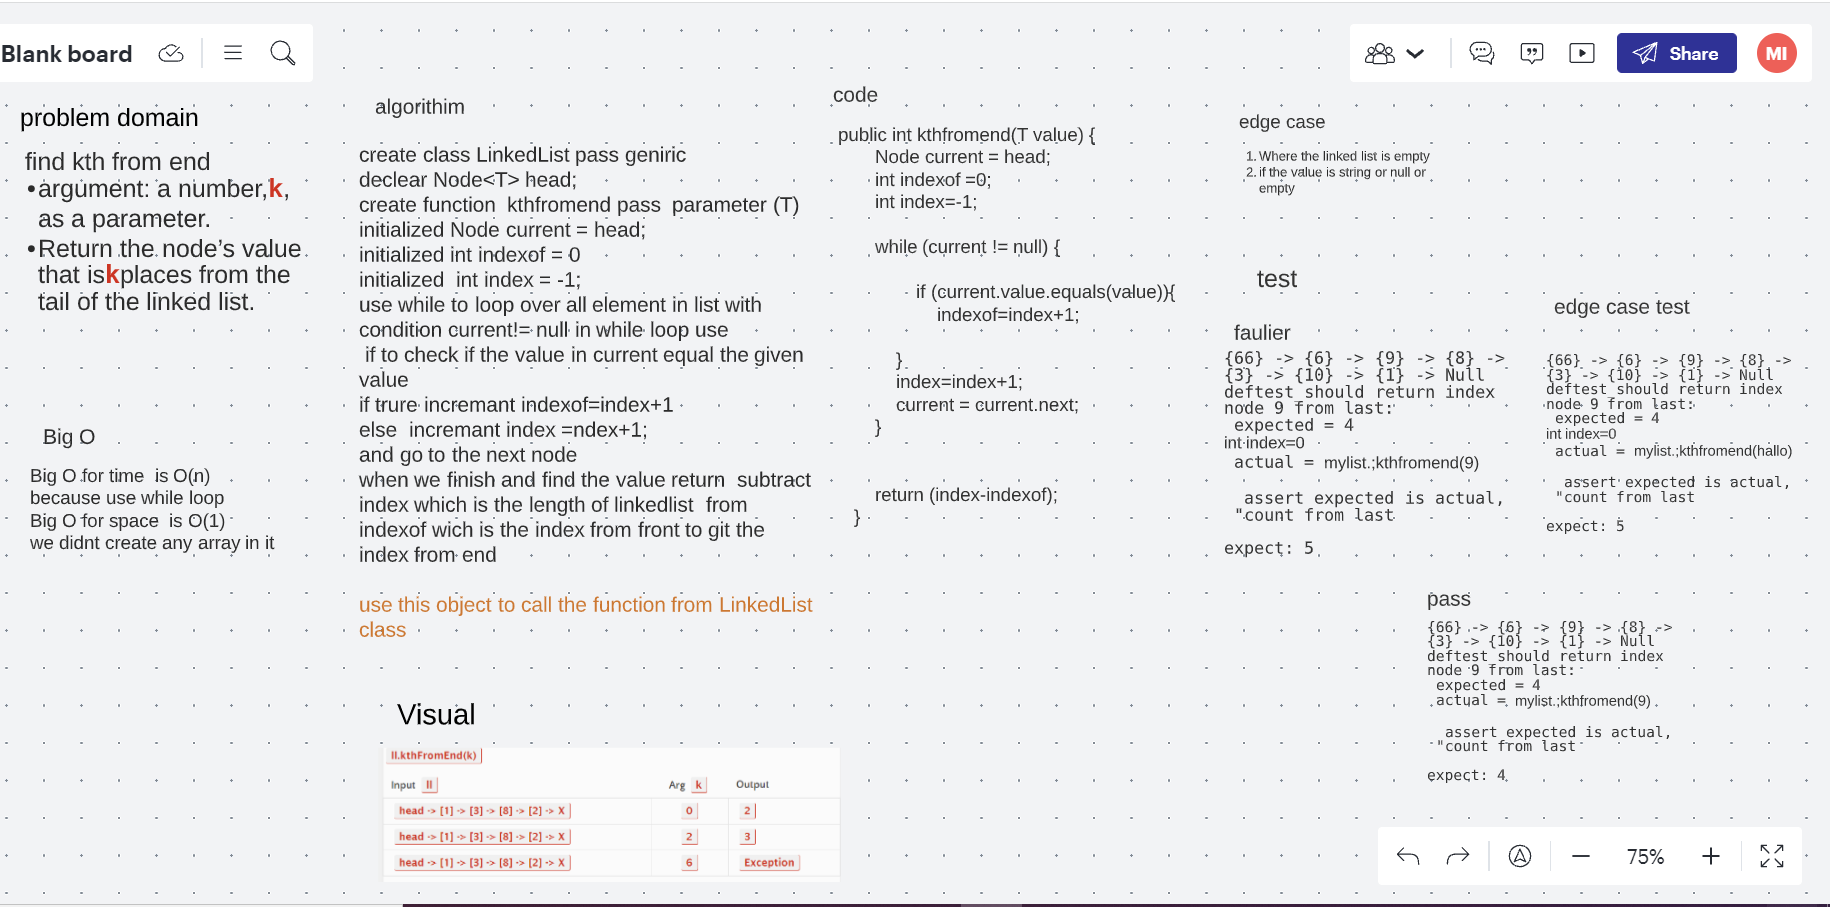
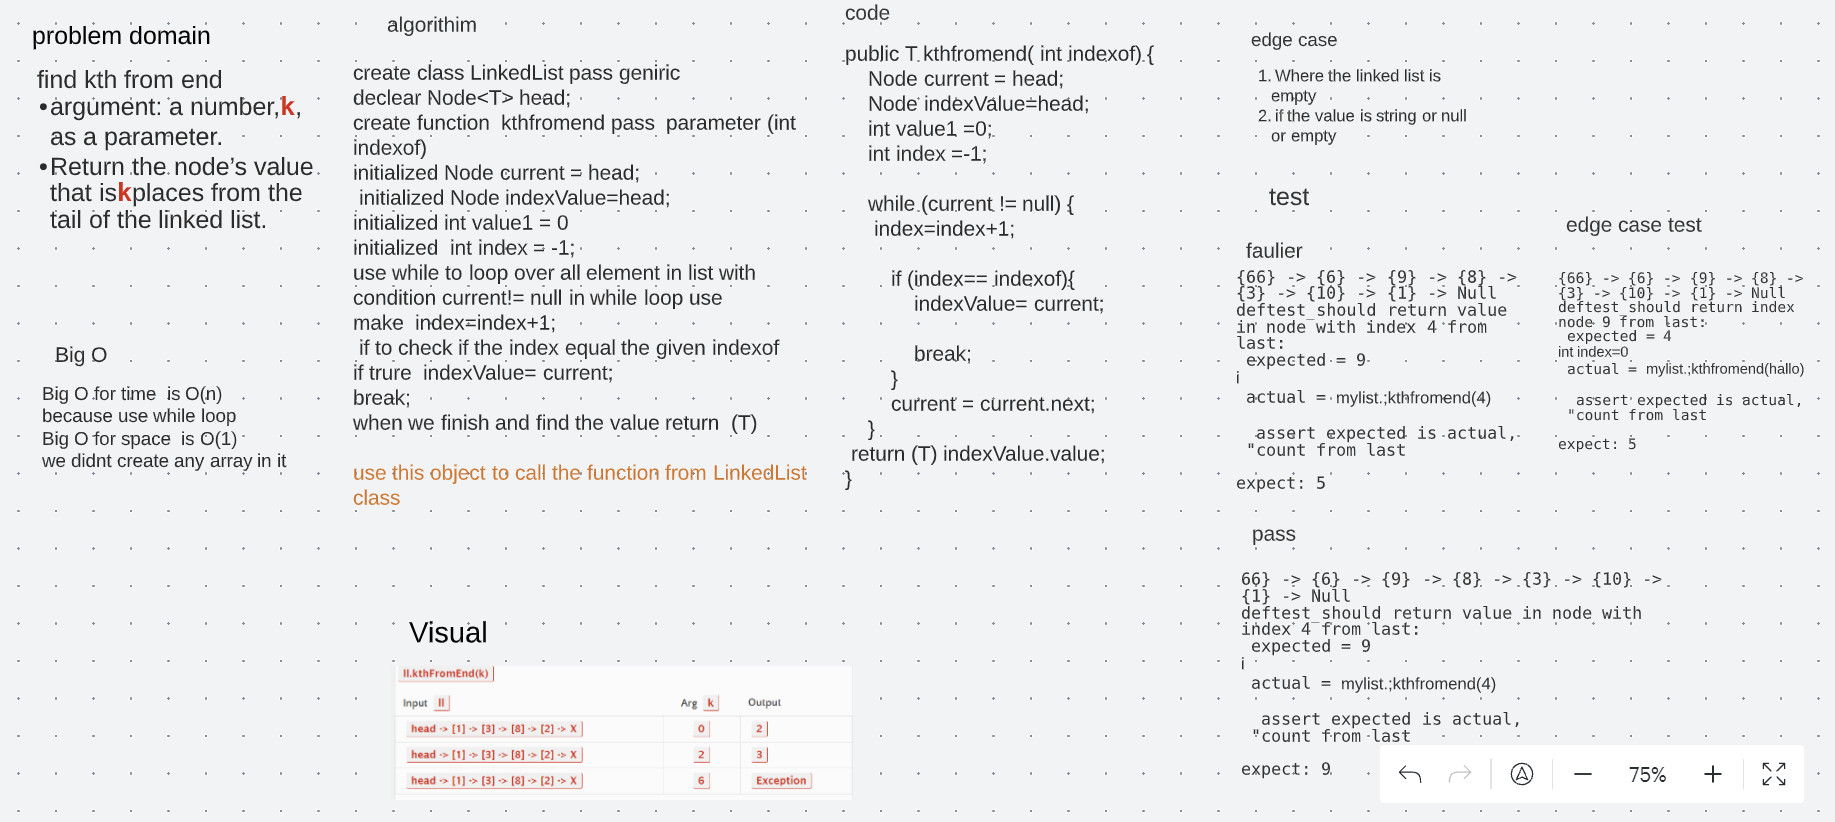
ch7

diff --git a/testchallange/challange-07/app/src/main/java/challange/LinkedList.java b/testchallange/challange-07/app/src/main/java/challange/LinkedList.java
@@ -1,7 +1,11 @@
 package challange;
 
+
+
+
 public class LinkedList<T> {
     Node<T> head;
+    int length=9;
     public LinkedList() {
         this.head = null;
     }
@@ -74,23 +78,88 @@ public class LinkedList<T> {
         }
 
     }
-    public int kthfromend(T value) {
-        Node current = head;
-        int indexof =0;
-        int index=-1;
+//    public int kthfromend(T value) {
+//        Node current = head;
+//        int indexof =0;
+//        int index=-1;
+//
+//        while (current != null) {
+//                if (current.value.equals(value)){
+//                    indexof=index+1;
+//
+//            }
+//            index=index+1;
+//            current = current.next;
+//        }
+////        System.out.println(index);
+////        System.out.println(indexof);
+//
+//        return (index-indexof);
+//    }
+public T kthfromend( int indexof) {
+    Node current = head;
+    Node indexValue=head;
+    int value1 =0;
+    int index =-1;
 
-        while (current != null) {
-                if (current.value.equals(value)){
-                    indexof=index+1;
+    while (current != null) {
+     index=index+1;
 
-            }
-            index=index+1;
-            current = current.next;
+        if (index== indexof){
+            indexValue= current;
+
+            break;
         }
+        current = current.next;
+    }
 //        System.out.println(index);
 //        System.out.println(indexof);
 
-        return (index-indexof);
+    return (T) indexValue.value;
+}
+    public int getLength() {
+        return length;
     }
 
+    public void setLength(int length) {
+        this.length = length;
+    }
+
+
+//    public  static LinkedList ZipList(LinkedList list1, LinkedList list2){
+// LinkedList ziplinked= new LinkedList();
+// int biggerlist=list1.getLength()>=list2.getLength()?list1.getLength():list2.getLength();
+// System.out.println(list1.getLength());
+// for (int i=1;i<=biggerlist;i++){
+//     if(list1.getLength()-1>=0){
+//         ziplinked.Insert(list1.kthfromend(list1.getLength()-i));
+//     }
+//if(list2.getLength()-1>=0){
+//    ziplinked.Insert(list2.kthfromend(list2.getLength()-i));
+//}
+// }
+//
+//return  ziplinked;
+//
+//}
+public String reserve() {
+    Node reversedPart = null;
+    Node current = head;
+    while (current != null) {
+        Node next = current.next;
+        current.next = reversedPart;
+        reversedPart = current;
+        current = next;
+    }
+    head = reversedPart;
+     current = head;
+    String resulte= "";
+    while (current != null) {
+        resulte=resulte+"{"+current.value+"} -> ";
+        current = current.next;
+
+    }
+    resulte=resulte+"Null";
+    return  resulte;
+}
     }

diff --git a/testchallange/challange-07/app/src/main/java/challange/App.java b/testchallange/challange-07/app/src/main/java/challange/App.java
@@ -9,28 +9,45 @@ public class App {
     public static void main(String[] args) {
 
     LinkedList<Integer> mylist = new LinkedList<>();
+        LinkedList<Integer> mylist2 = new LinkedList<>();
+
 //        System.out.println(mylist.toString());
         mylist.Insert(1);
 //        System.out.println(mylist.toString());
 //        mylist.insert(5);
 //        mylist.insert(6);
-        mylist.Insert(10);
-        mylist.Insert(3);
+        mylist.Insert(1);
+        mylist.Insert(2);
 //        mylist.inserlast(66);
-        mylist.Insert(8);
-        mylist.Insert(9);
-        mylist.Insert(6);
+        mylist.Insert(3);
+        mylist.Insert(4);
+        mylist.Insert(5);
         mylist.Insert(66);
+        mylist2.Insert(7);
+        mylist2.Insert(8);
+        mylist2.Insert(7);
+        mylist2.Insert(4);
+        mylist2.Insert(7);
+        mylist2.Insert(77);
+        mylist2.Insert(8);
+        System.out.println(mylist.toString());
+
+//        System.out.println(LinkedList.ZipList(mylist,mylist2));
 
 //        mylist.insertbefore(3,77);
 //       mylist.insertafter(10,6);
-        System.out.println(mylist.toString());
+//        System.out.println(mylist.toString());
 //       System.out.println(mylist.Include(10));
 //        System.out.println(mylist.Include(3));
-        System.out.println(mylist.kthfromend(66));
+//        System.out.println(mylist.kthfromend(66));
 
 
+        System.out.println(mylist.reserve());
+//        System.out.println(mylist.toString());
 
+
+        System.out.println(mylist.kthfromend(3));
+//        System.out.println(mylist.toString());
 
 
     }

diff --git a/testchallange/challange-07/app/src/main/java/challange/Node.java b/testchallange/challange-07/app/src/main/java/challange/Node.java
@@ -4,6 +4,22 @@ public class Node<T> {
     public Node next;
     public T value;
 
+    public Node getNext() {
+        return next;
+    }
+
+    public void setNext(Node next) {
+        this.next = next;
+    }
+
+    public T getValue() {
+        return value;
+    }
+
+    public void setValue(T value) {
+        this.value = value;
+    }
+
     public Node(T value){
         this.value=value;
     }
